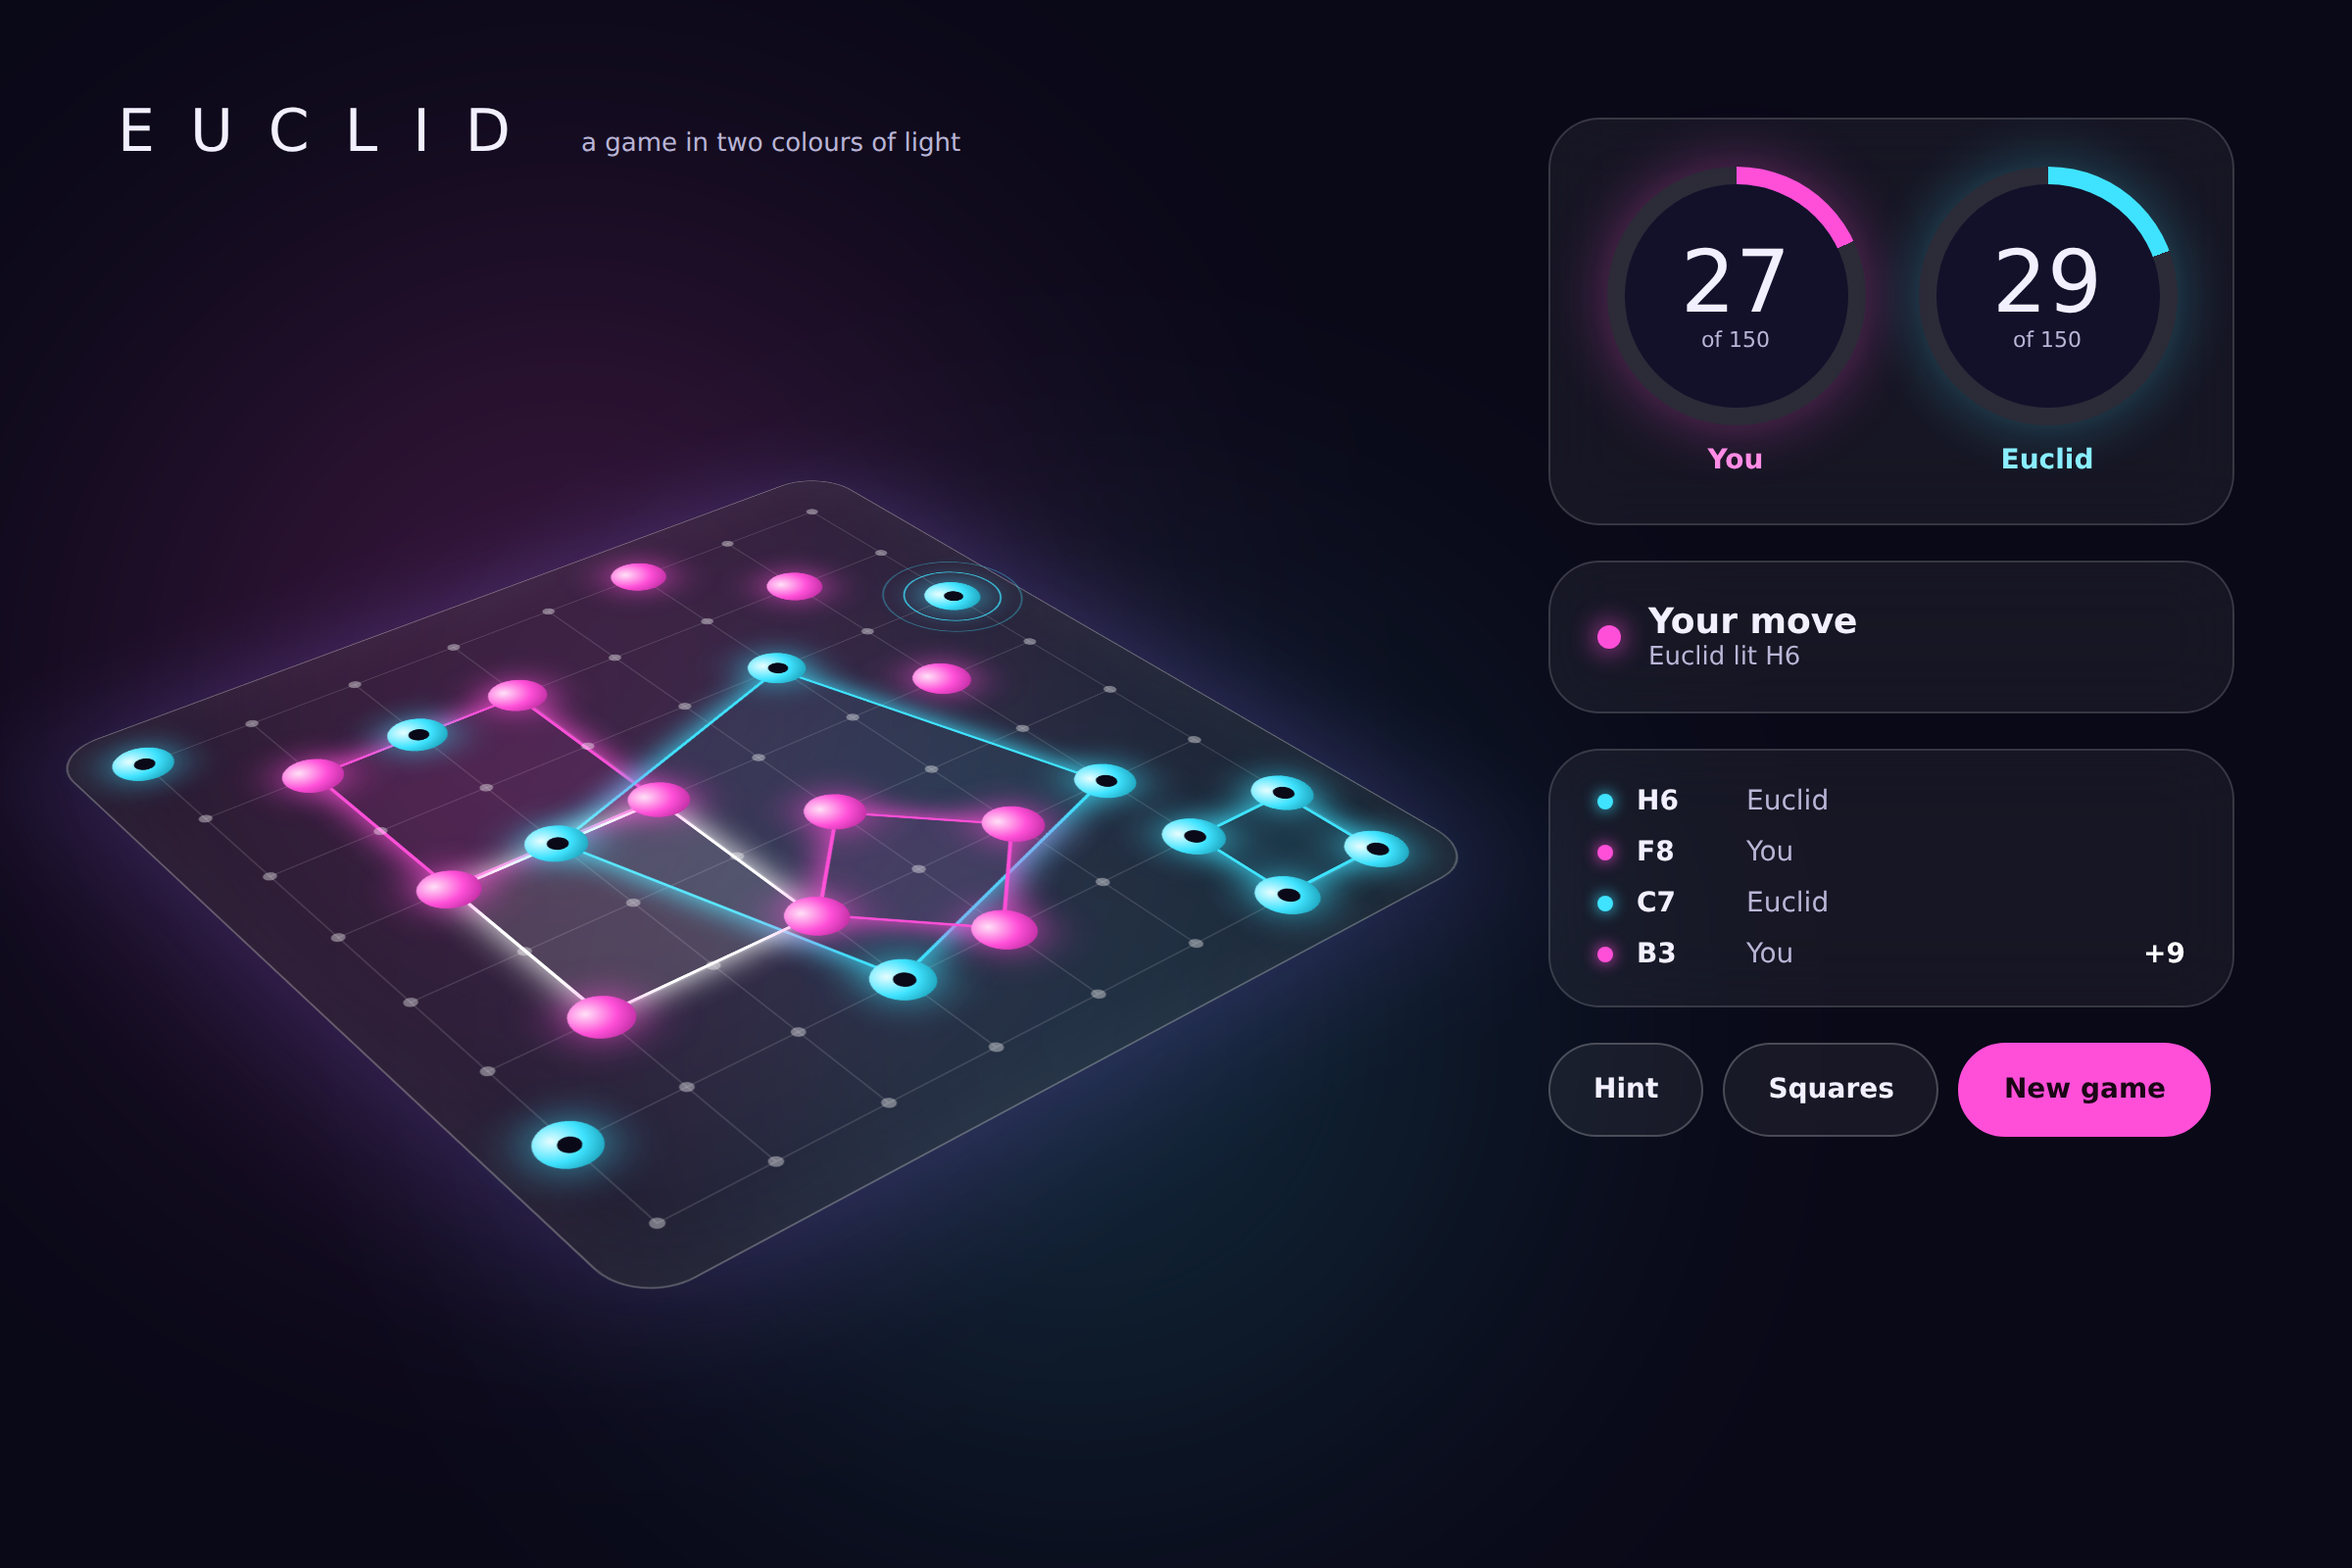
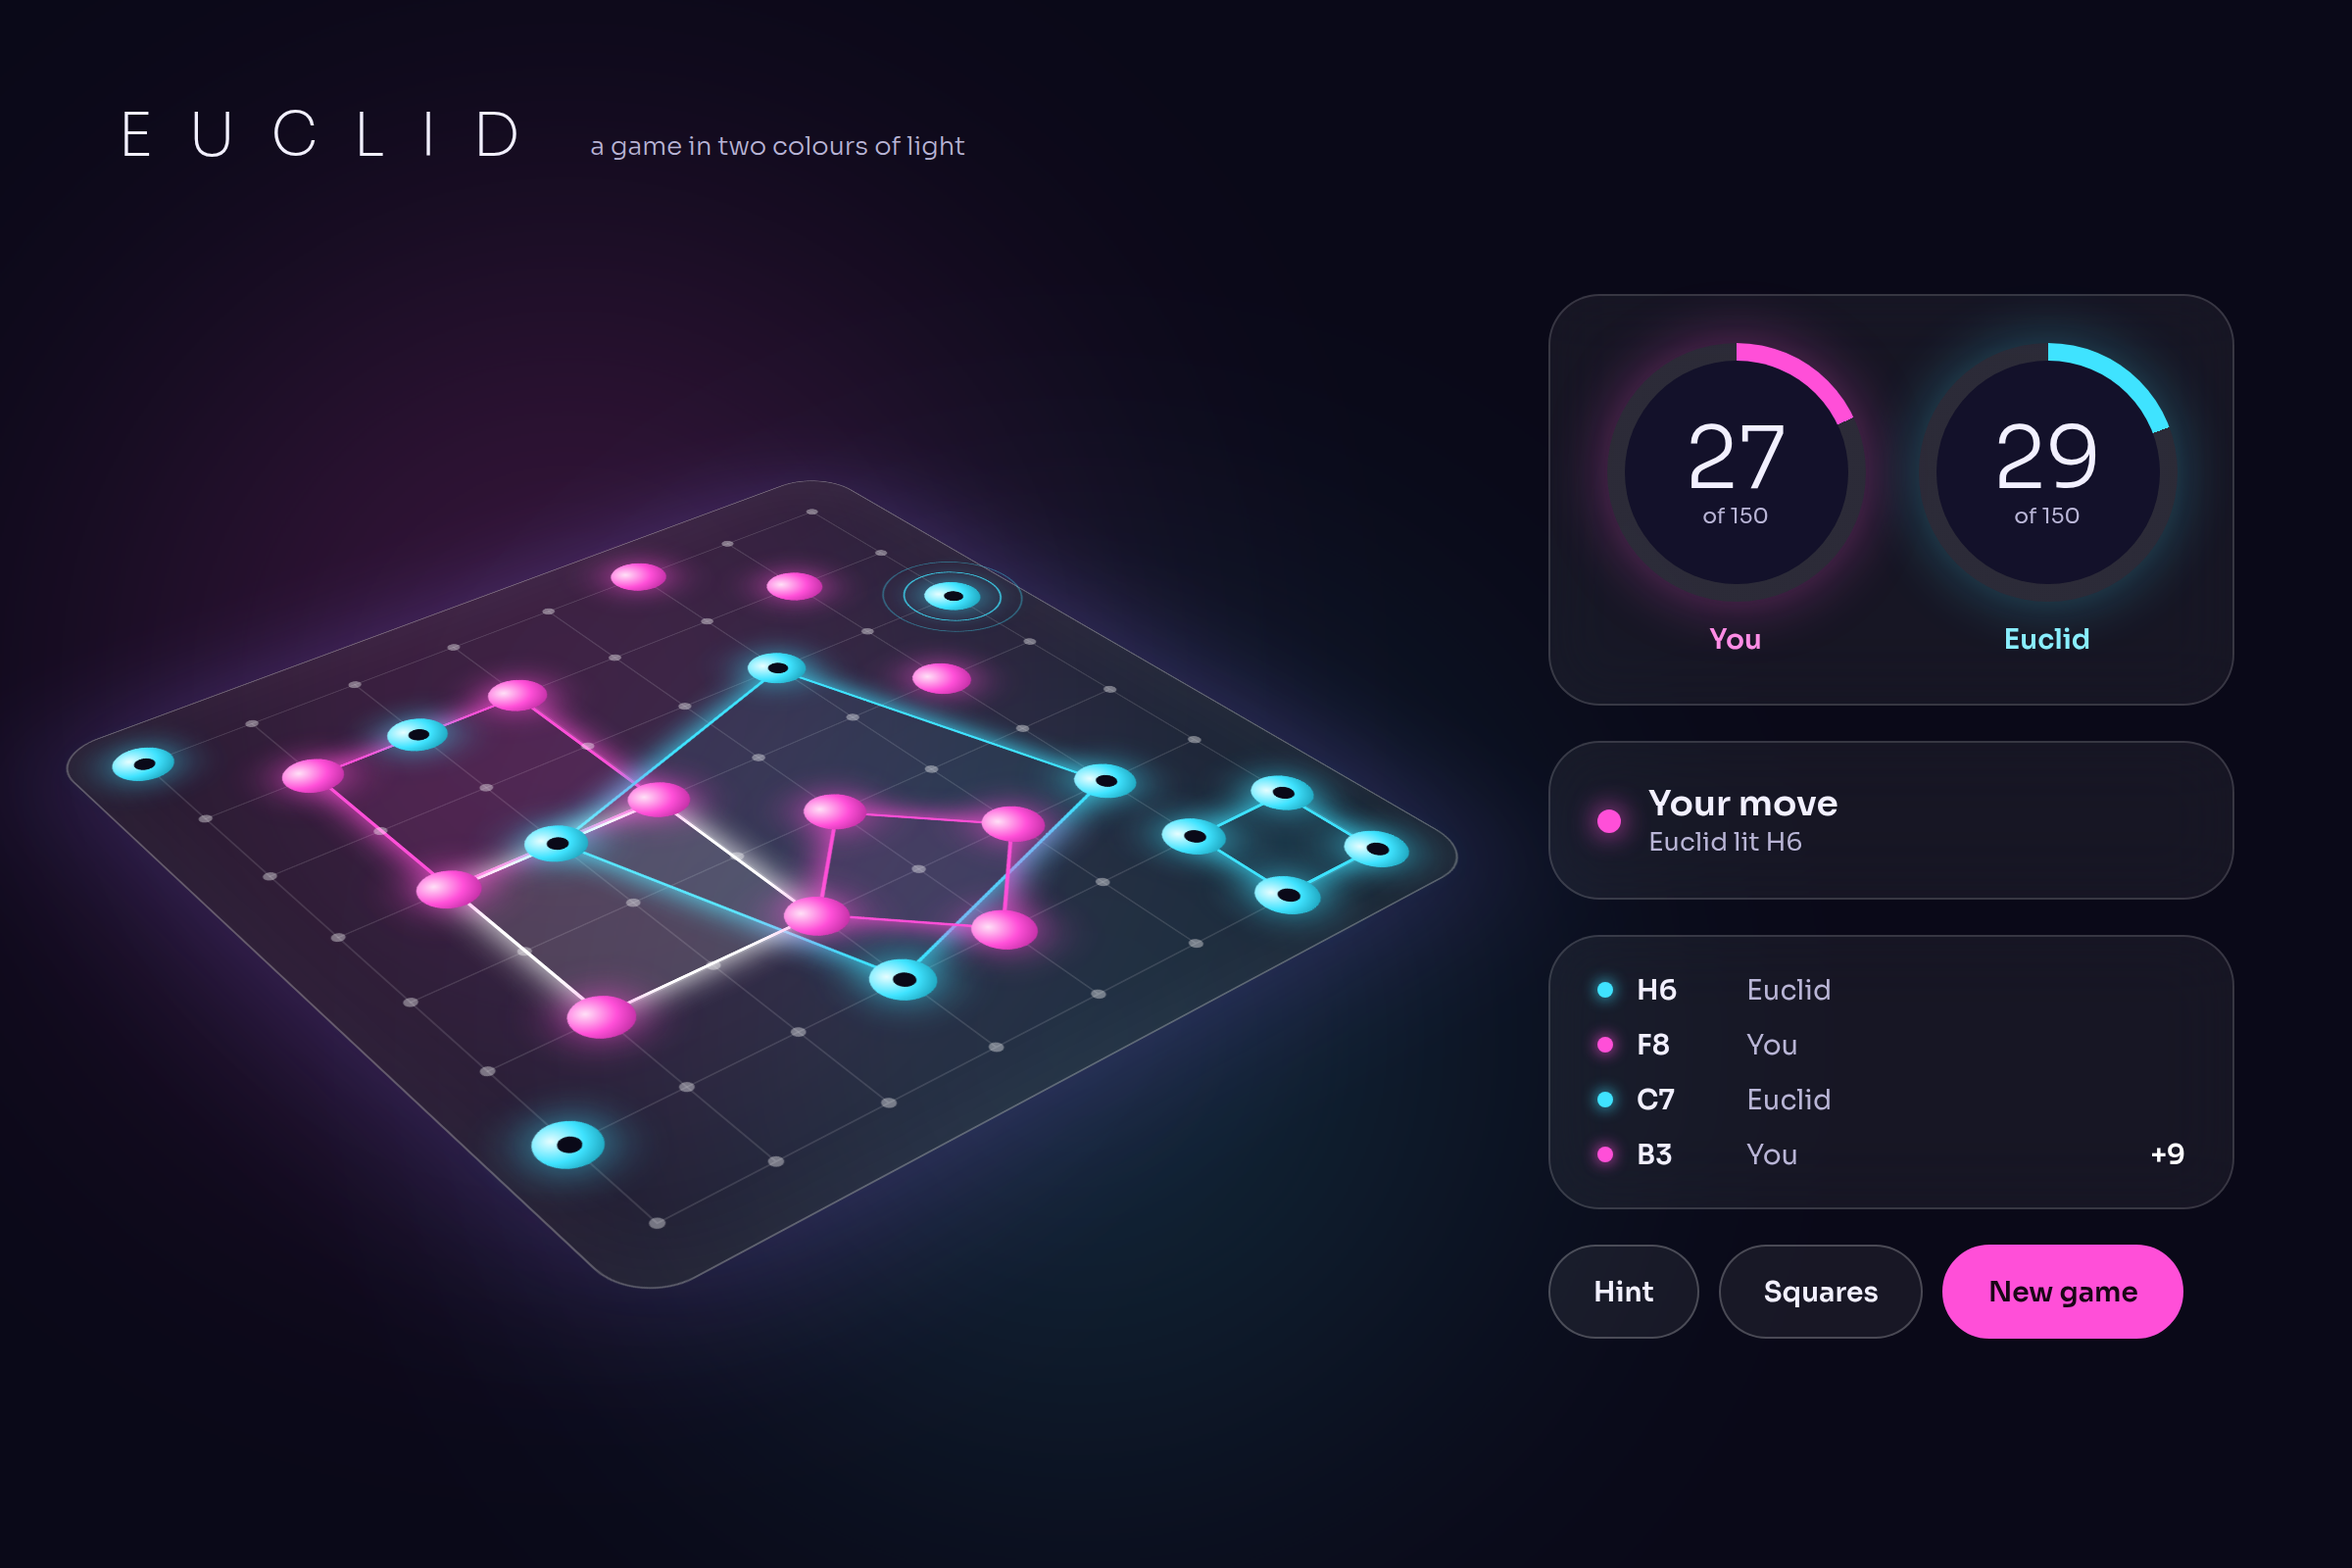
Centre the Orbital score panel against the tilted board

diff --git a/designs/source/06-orbital.dc.html b/designs/source/06-orbital.dc.html
@@ -56,7 +56,7 @@ a{color:#3FE3FF}a:hover{color:#9CF1FF}
     <div style="font-size: 13px; font-weight: 300; color: #B9B5D6">a game in two colours of light</div>
   </div>
 
-  <div style="position: absolute; left: 790px; top: 60px; width: 350px; display: flex; flex-direction: column; gap: 18px">
+  <div style="position: absolute; left: 790px; top: 150px; width: 350px; display: flex; flex-direction: column; gap: 18px">
     <div class="glass" style="padding: 24px; display: grid; grid-template-columns: repeat(2, minmax(0, 1fr)); gap: 18px">
       <div style="display: flex; flex-direction: column; align-items: center; gap: 10px">
         <div style="position: relative; width: 132px; height: 132px; border-radius: 50%; background: conic-gradient(#FF4FD8 0 18%, rgba(255,255,255,.09) 18% 100%); box-shadow: 0 0 30px rgba(255,79,216,.35)">
